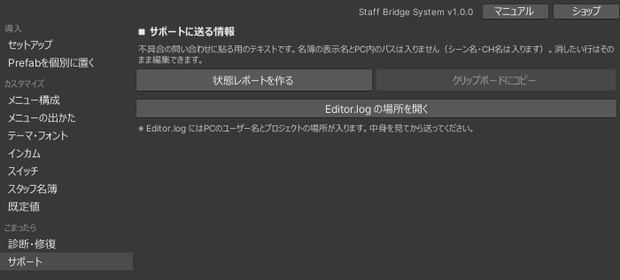
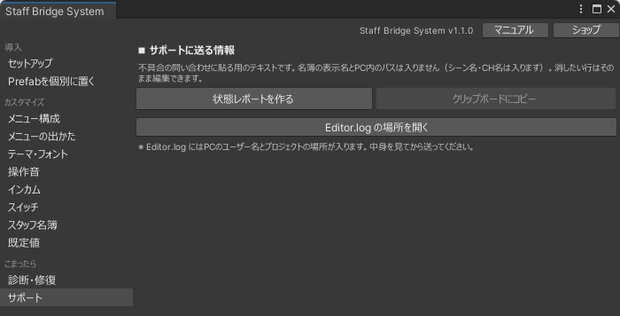
SBSマニュアル: 声の大きさ調整および前面描画の仕様反映と文章の整理

diff --git a/docs/staff-bridge-system/troubleshoot.md b/docs/staff-bridge-system/troubleshoot.md
@@ -27,6 +27,18 @@
 
 ---
 
+## メニューのボタンが押せない・反応しない
+
+- ワールドのオブジェクトとボタンが重なっている可能性があります。開いたメニューは手前に描画されますが、当たり判定のあるオブジェクトの向こう側にあるボタンはレーザーが遮られて押せません。少し移動して開き直してください。
+
+---
+
+## メニューがワールドのオブジェクトに隠れて見えない
+
+- v1.1.0 以降は、開いたメニューや視界の表示が手前に描画されます。以前の版から更新したプロジェクトで反映されていない場合は、セットアップ窓の「診断・修復」から「メニューを手前に描く」を実行してください。
+
+---
+
 ## スタッフにならない
 
 - 表示名が名簿と完全一致していないことが最も多い原因です。前後の空白、全角半角、絵文字の有無を確認してください。
@@ -54,6 +66,28 @@
 「スタッフ限定モード」が OFF になっていないか確認してください。この設定はワールドに焼き込まれるため、変更後は再アップロードが必要です。
 
 「診断・修復」ページの「インカム聴こえ方マトリクス検査」で、設定した構成での聴こえ方をエディタ上で事前確認できます。
+
+## インカム・メガホンの声が小さい・遠く感じる { #voice-small }
+
+声は聞こえているが小さい場合、聞く人の設定とワールド設定の順に確認してください。
+
+### 1. 聞く人の設定を確認する
+
+- **[イヤーマフ](https://docs.vrchat.com/docs/vrchat-202222p3)**：減衰（外側の音量／Outside Volume）が 0% だと範囲外の音がすべて遮断され、インカム等の音声も聞こえなくなります。オフにするか、最低でも 5% 程度確保してください。
+- **相手の個別音量**：クイックメニューで、相手の音量を個別に下げていないか確認します。
+- **他の音声ギミック**：防音室など音量を変える他ギミックと同居していると、設定が上書きされる場合があります（[他ギミック使用時の停止](howto.md#pause-for-other-gimmick)）。
+
+<span id="voice-order"></span>
+!!! note "イヤーマフはワールド側から解除・検知できません"
+    VRChat のイヤーマフ処理はワールド側の音声制御よりも後の最終段階で適用されるため、ワールド側から設定の上書きや状態検知を行うことができません。範囲外のスタッフにも声を届ける必要がある場合は、イヤーマフの減衰を 0% にせず、最低でも 5% 程度確保する運用を推奨します。
+
+<span id="voice-guide"></span>
+### 2. 聞こえる音量（Voice Gain）を上げる
+
+聞く側の設定に問題がなければ、届く音量（Voice Gain）を上げます（上限 24 dB）。話す側のマイク音量ではなく、聞く側にどう聞こえるかの設定です。
+
+- **ワールド全体の既定**：セットアップ窓の「インカム」ページ > 「インカムの声の大きさ（dB）」「メガホンの声の大きさ（dB）」で調整します（既定：インカム 12、メガホン 15）。
+- **スタッフ各自の調整**：メニューの[設定タブ](usage.md#voice-gain) > 「インカム」で、自分に聞こえる音量を個別に増減できます（自分の話す声の音量は変わりません）。
 
 ## メニューを閉じるとインカムが使えない
 

diff --git a/docs/staff-bridge-system/howto.md b/docs/staff-bridge-system/howto.md
@@ -64,6 +64,7 @@
 | 正面の視界を空けたい | メニューの出かたページ > **下オフセット**（既定 0.12m） |
 | 開いたメニューが置きっぱなしになる | メニューの出かたページ > **離れたら自動で閉じる** と **自動で閉じる距離**（既定 3m） |
 | 最初に開くタブを変えたい | メニューの出かたページ > **最初に開くタブ**（0 = 1番目）。2回目以降は前回のタブが開く |
+| ワールドのオブジェクトにメニューが隠れて読めない | v1.1.0 以降は自動で手前に描画されます。更新したプロジェクトで反映されていない場合は、セットアップ窓の「診断・修復」から「メニューを手前に描く」を実行 |
 
 ![メニューの出かたページ](images/edit-display.png)
 
@@ -97,6 +98,9 @@
 | 押しっぱなしをやめてトグルやOFFにしたい | 各自がメニューの[設定タブ](usage.md#settings)で切り替え（ボタンは長押し／トグル、VRの耳元操作はPTT／トグル／OFF）。初期値は Inspector の `StaffTalkSettings` |
 | 受信時に誰が話しているかを視界で見たい | 各自がメニューの[設定タブ](usage.md#settings)で **受信時の発話者名** を ON（既定 ON） |
 | 誰の声が誰に聞こえるか事前に確かめたい | 診断・修復ページ > インカム聴こえ方マトリクス検査 |
+| インカムの声を大きく／小さくしたい | インカムページ > **インカムの声の大きさ（dB）**（既定 12・範囲 1〜24）。[詳細](reference.md#voice-gain) |
+| スタッフ各自が自分の聞こえ方に合わせたい | 各自がメニューの[設定](usage.md#voice-gain)の「インカム」タブで **声の大きさ** を調整 |
+| 「声が小さい」と言われた | 先に聞く人の[イヤーマフ](https://docs.vrchat.com/docs/vrchat-202222p3)と個別音量を確認 → [トラブルシューティング](troubleshoot.md#voice-small) |
 
 ## メガホン
 
@@ -105,13 +109,14 @@
 | VRメガホンの誤操作を避けたい | ワールド内の設定タブ > **VRの耳元操作（メガホン）** を長押し／トグル／OFFから選択 |
 | メガホンの起動を重く／軽くしたい | 既定値ページ > **メガホンの長押し秒**（既定 0.5） |
 | メガホンの使いすぎを止めたい | 既定値ページ > **メガホンの最大使用秒**（既定 180） |
+| メガホンの声を大きく／小さくしたい | インカムページ > **メガホンの声の大きさ（dB）**（既定 15・範囲 1〜24） |
 | スタッフ以外を含む全員に呼びかけたい | メニューのメガホンボタンを長押し → [メガホン](usage.md#megaphone) |
 
 メガホンとインカムの既定値は、既定値ページの同じ欄にまとまっています。
 
 ![既定値ページ](images/edit-defaults.png)
 
-## 他の音声ギミックを使う回だけ本製品を止めたい
+## 他の音声ギミックを使う回だけ本製品を止めたい { #pause-for-other-gimmick }
 
 インカムもメガホンも、プレイヤーの声の設定を書き換えて動きます。同じ設定を操作する別のギミック（防音室・ボイスゾーン・音量調整・拡声など）とは同時には使えません。どちらを使う回かに応じて、本製品側を止められます（[運用ガイド](operation.md#incom-power)）。
 

diff --git a/docs/staff-bridge-system/faq.md b/docs/staff-bridge-system/faq.md
@@ -11,6 +11,22 @@
 - メニュー・名簿・定型文などを変更する：[やりたいことから探す](howto.md)
 - 思いどおりに動かない：[トラブルシューティング](troubleshoot.md)
 
+## 音声について { #audio }
+
+声が小さい・聞こえにくいときの確認手順は、[トラブルシューティング](troubleshoot.md#voice-small)を参照してください。
+
+イヤーマフを使っている人にも、インカムやメガホンの声は聞こえますか？ { #earmuff }
+:   聞こえますが、イヤーマフの減衰（外側の音量／Outside Volume）の影響を受けます。0% に設定されていると範囲外の音がすべて遮断されてインカム等の音声も聞こえなくなるため、最低でも 5% 程度確保する運用を推奨します。
+
+イヤーマフを無視して、全員に同じ声の大きさで届ける設定はありますか？
+:   ありません。VRChat の仕様上、イヤーマフ処理はワールド側の音声制御よりも後の最終段階で適用されるため、ワールド側からイヤーマフ設定の上書きや状態検知を行うことはできません（[詳細](troubleshoot.md#voice-small)）。
+
+声の大きさを上げれば、イヤーマフで小さくなった分を補えますか？
+:   一部しか補えません。[Voice Gain](https://creators.vrchat.com/worlds/udon/players/player-audio/)は VRChat の仕様で上限が 24 dB のため、上げられる幅に限りがあります。
+
+インカムとメガホンの声の大きさは、どこで変えられますか？
+:   ワールド全体の既定値はセットアップ窓の「インカム」ページ（1〜24 dB）、スタッフ各自はメニューの[設定タブ](usage.md#voice-gain)にある「声の大きさ」スライダーで調整できます。どちらも「聞く側に届く音量」の設定であり、話す側のマイク音量を変えるものではありません。ほかの人の聞こえ方も変わりません。
+
 ## ライセンス・購入について
 
 ここは要約です。正式な利用条件は [Staff Bridge System 利用規約（PDF）](https://drive.google.com/file/d/1udZaWP37aN14rFh5DS4WfA0J7ZAQSaax/view?usp=sharing) を参照してください。

diff --git a/docs/staff-bridge-system/install.md b/docs/staff-bridge-system/install.md
@@ -115,10 +115,10 @@ Hierarchyでオブジェクトを選択し、右クリック > **GameObject > MG
 
 ## 既存のワールドを更新する { #update }
 
-1. UnityをPlayモードから戻し、シーンを保存します。プロジェクトをバックアップするか、Gitで更新前の状態を残してください。
-2. 新しいunitypackageを同じプロジェクトへインポートし、C#とUdonSharpのコンパイルが終わるまで待ちます。前提パッケージのバージョンは、そのまま維持します。
-3. 設定画面の新しい項目が出ない場合は、セットアップ窓の「メニュー構成」で現在の構成を確認し、メニューを作り直します。
-4. スタッフ名簿、テレポート先、チャンネル名、定型文、ノート、スイッチの送り先、個人設定の初期値を確認します。直接手で変更した見た目や独自の追加物は、再生成後にも確認してください。
-5. 「診断・修復」を確認し、ClientSimでスタッフ切替・メニュー操作・スイッチなどを動かします。アップロード後は、複数人での通話や同期、VRでの操作も確認してください。
+事前にプロジェクトのバックアップを取ってから行ってください。
 
-同梱サンプルシーンを直接編集している場合は、インポートで上書きされる前に別名で保存してください。自分のワールドでは、同梱サンプルの再生成は不要です。
+1. 新しい unitypackage をプロジェクトへインポートします。
+2. セットアップ窓の「診断・修復」を開き、追加や更新の項目（「声の大きさの調整を追加」「メニューを手前に描く」など）が表示されていれば実行します。
+3. ClientSim でメニュー操作やインカム通話を確認します。
+
+※同梱サンプルシーンを直接編集している場合は、インポートで上書きされる前に別名で保存してください。

diff --git a/docs/staff-bridge-system/changelog.md b/docs/staff-bridge-system/changelog.md
@@ -1,7 +1,14 @@
 # Staff Bridge System 更新履歴
 
+## 1.1.0（日付はリリース時に記入）
+
+- **インカム・メガホンの声の大きさ調整**：ワールド全体の既定値（セットアップウィンドウ）およびスタッフ各自の調整スライダー（設定タブ）を追加
+- **メニュー・視界表示の前面描画**：開いたSBSメニューや視界表示（状態の帯・ノート・通知ログ）がワールドのオブジェクトに隠れないよう改善
+- **診断・修復の拡張**：既存シーン向けに声の大きさ調整や前面描画を追加する項目に対応
+
+※既存ワールドからの更新手順は [既存のワールドを更新する](install.md#update) を参照してください。
+
 ## 1.0.0（2026-09-28）
 
-販売開始（初版）。
+- 初期リリース
 
-- VRChat ワールド向けイベント運営支援統合システム「Staff Bridge System」の初期リリース。
